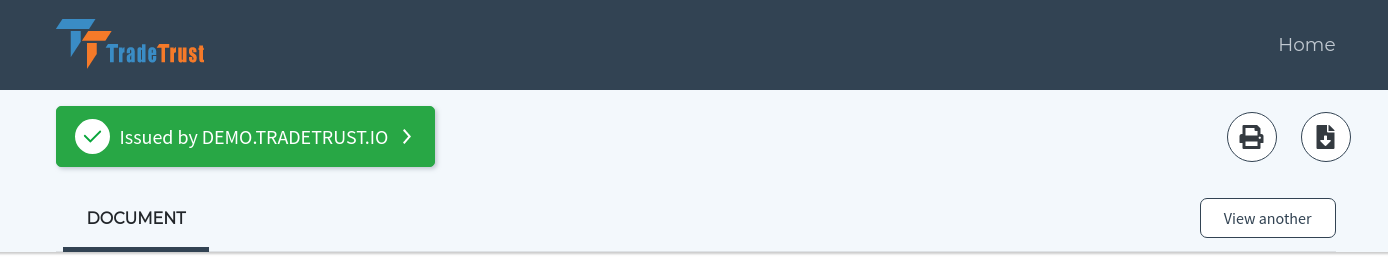
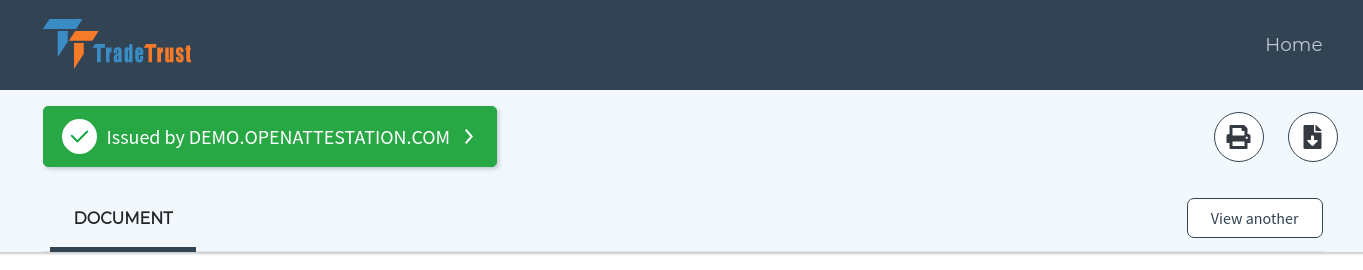
fix: comments

diff --git a/docs/verifiable-document/dns-proof.md b/docs/verifiable-document/dns-proof.md
@@ -4,15 +4,15 @@ title: Configuring DNS
 sidebar_label: Configuring DNS
 ---
 
-Every OA document's provenance can be verified and traced back to it's creator or issuer. This is achieved by embedding an `identityProof` in the document which serves as a claim of identity. During the verification phase, the claim is checked against external records.
+Every OA document's provenance can be verified and traced back to its creator or issuer. This is achieved by embedding an `identityProof` in the document which serves as a claim for identity. During the verification phase, the claim is checked against external records.
 
-In this guide, we will bind the document issuer's identity to a valid domain name. This domain will be displayed as issuer every time the document is rendered in a complaint viewer.
+In this guide, we will bind the document issuer's identity to a valid domain name. This domain will be displayed as issuer every time the document is rendered in a compliant viewer.
 
 ## Example
 
 ![Example Issuer Identity](/docs/verifiable-document/dns-proof/example.png)
 
-In this example, the document's issuer is bound to `DEMO.TRADETRUST.IO`.
+In this example, the document's issuer is bound to `DEMO.OPENATTESTATION.COM`.
 
 ## Pre-requisite
 
@@ -32,7 +32,7 @@ Using the domain web UI, insert a `TXT` record into the DNS in the following for
 openatts net=ethereum netId=3 addr=&lt;DOCUMENT_STORE_ADDRESS&gt;
 ```
 
-where `DOCUMENT_STORE_ADDRESS` is the document store smart contract address obtained [in the previous guide](/docs/verifiable-document/document-store/).
+where `<DOCUMENT_STORE_ADDRESS>` is the document store smart contract address obtained [in the previous guide](/docs/verifiable-document/document-store/).
 
 An example of a valid `TXT` record is as shown:
 
